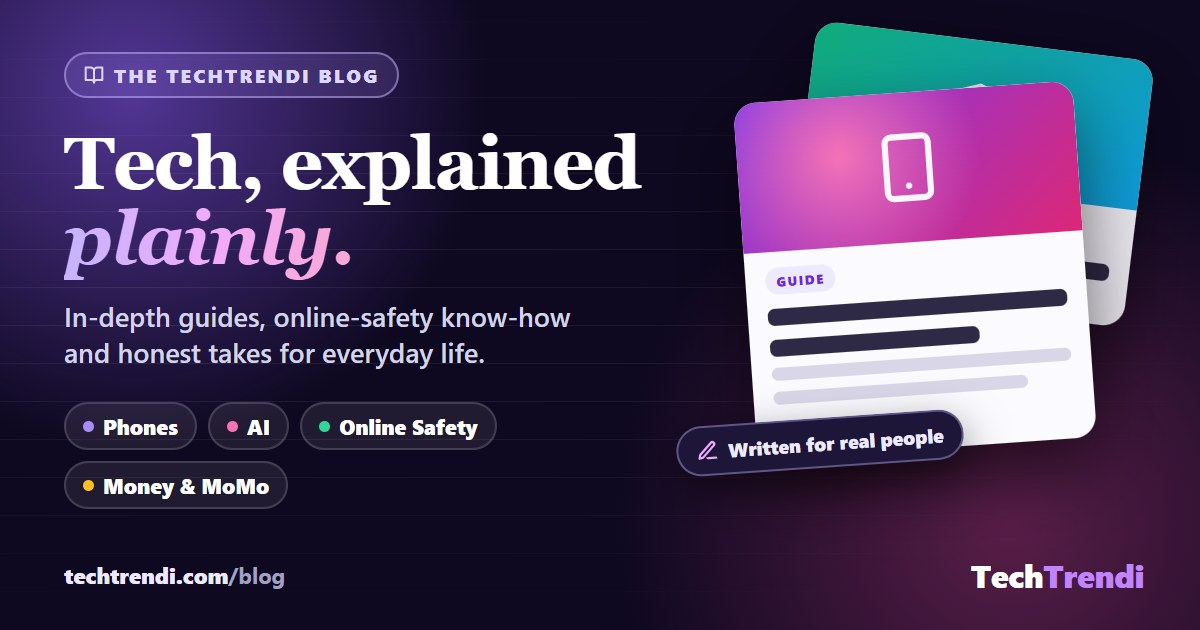
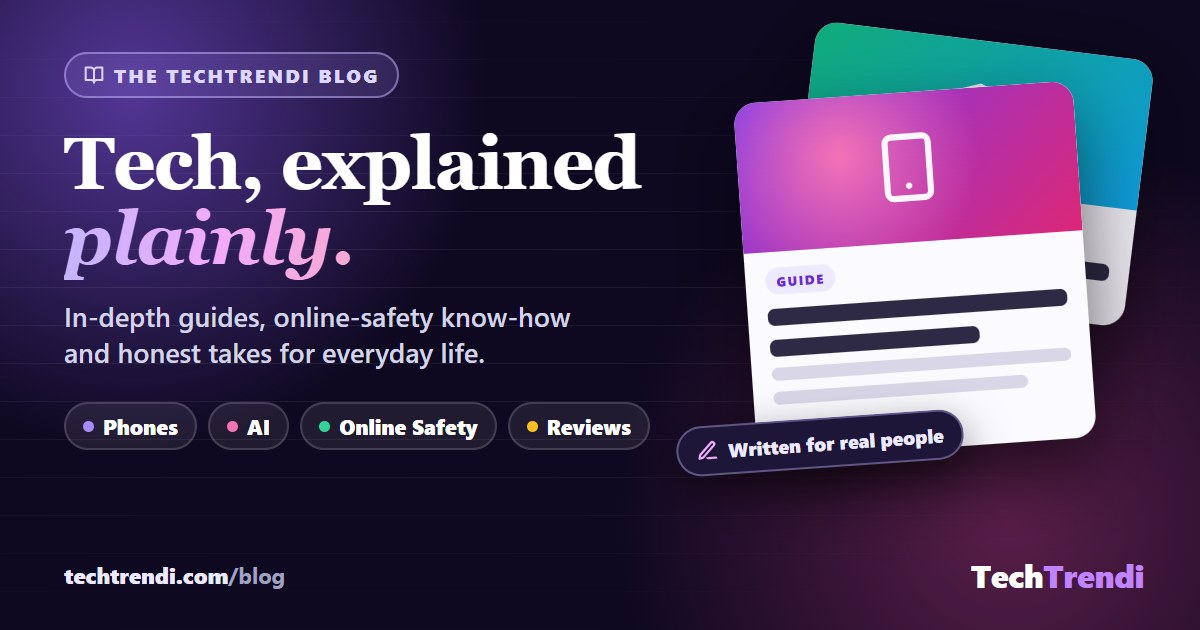
Blog share picture: swap 'Money & MoMo' tag for 'Reviews' (owner's request)

Changed region(s): [[0.0617, 0.7238, 0.2467, 0.8143], [0.4317, 0.6333, 0.555, 0.7238]]

diff --git a/src/pages/Blog.tsx b/src/pages/Blog.tsx
@@ -186,7 +186,7 @@ export default function Blog() {
         description="Stay updated with the latest tech trends, in-depth guides, and expert reviews. Expert technology articles covering phones, security, AI, and productivity."
         canonical="/blog"
         image="/og-blog.jpg"
-        imageAlt="The TechTrendi Blog: tech, explained plainly. Guides on phones, AI, online safety and MoMo."
+        imageAlt="The TechTrendi Blog: tech, explained plainly. Guides on phones, AI, online safety and reviews."
         keywords={["tech blog", "technology articles", "tech guides", "smartphone reviews", "AI articles", "cybersecurity tips"]}
       />
       <PageHero
